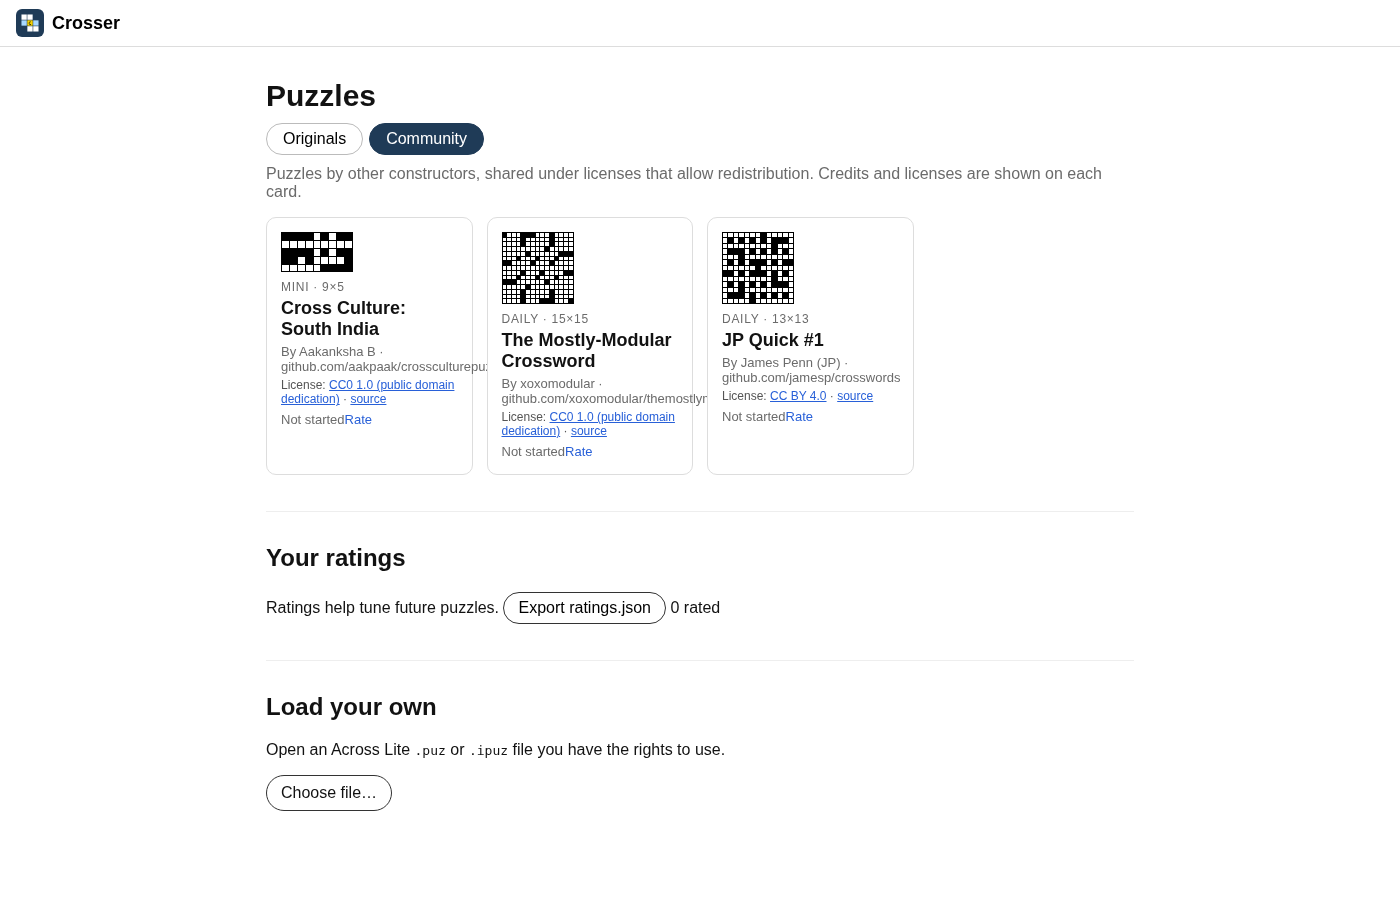
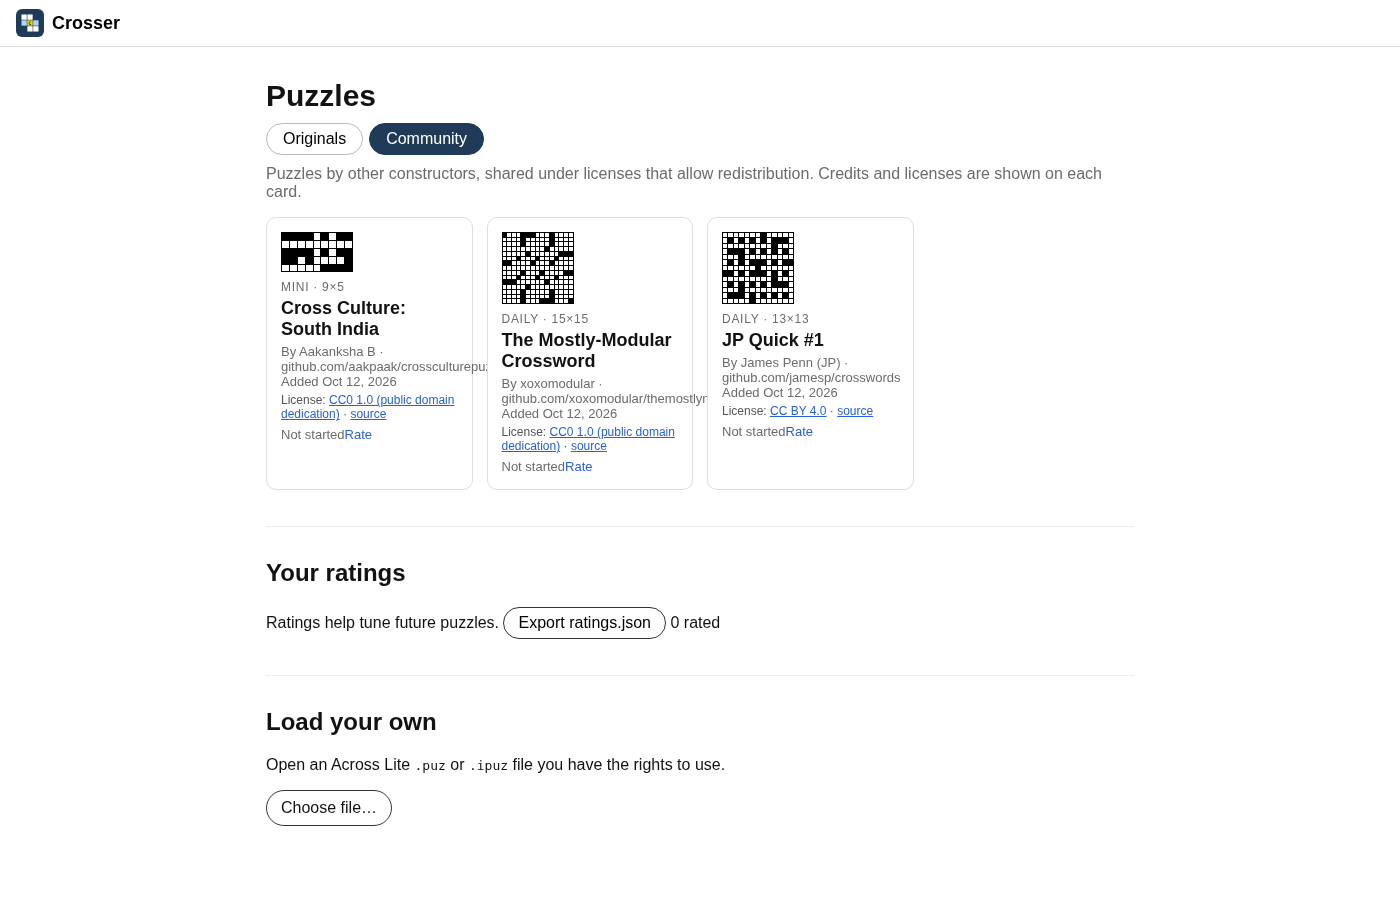
addedDate on all puzzles (ET), shown on cards and header; newest first

diff --git a/app.js b/app.js
@@ -25,7 +25,7 @@ const $=id=>document.getElementById(id);
 const store={get:k=>{try{return JSON.parse(localStorage.getItem('xw:'+k))}catch(e){return null}},set:(k,v)=>{try{localStorage.setItem('xw:'+k,JSON.stringify(v))}catch(e){}}};
 const COMM=(typeof COMMUNITY_PUZZLES!=='undefined')?COMMUNITY_PUZZLES:[];let tab='orig';
 function allPuzzles(){return PUZZLES.concat(COMM,store.get('imported')||[]);}
-function tabPuzzles(){const L=tab==='comm'?COMM.slice():PUZZLES.concat(store.get('imported')||[]);return L.map((p,i)=>[p,i]).sort((x,y)=>String(y[0].date||y[0].addedAt||'').localeCompare(String(x[0].date||x[0].addedAt||''))||y[1]-x[1]).map(x=>x[0]);}
+function tabPuzzles(){const L=tab==='comm'?COMM.slice():PUZZLES.concat(store.get('imported')||[]);return L.map((p,i)=>[p,i]).sort((x,y)=>String(y[0].addedDate||'').localeCompare(String(x[0].addedDate||''))||y[1]-x[1]).map(x=>x[0]);}
 function save(){if(M)store.set('p:'+M.p.id,S);}
 function fresh(){return {fill:M.cells.map(()=>''),pen:M.cells.map(()=>false),rev:M.cells.map(()=>false),wrong:M.cells.map(()=>false),time:0,done:false,auto:false};}
 // ---------- archive ----------
@@ -42,13 +42,14 @@ function showArchive(){
     const kind=n<=7?'Mini':n<=11?'Midi':'Daily';
     const status=st&&st.done?`<span class="st done">Solved · ${fmt(st.time)}</span>`:st&&filled?`<span class="st">${Math.round(100*filled/tot)}% · ${fmt(st.time)}</span>`:`<span class="st">Not started</span>`;
     d.innerHTML=`<div class="kind">${kind} · ${w}×${n}</div><div class="t"></div><div class="st by"></div>`;
-    d.querySelector('.t').textContent=p.title;d.querySelector('.by').textContent=(p.author?'By '+p.author:'')+(p.source?' · '+p.source:'');
+    d.querySelector('.t').textContent=p.title;d.querySelector('.by').textContent=(p.author?'By '+p.author:'')+(p.source?' · '+p.source:'');const ad=document.createElement('div');ad.className='st added';ad.textContent=fmtDate(p.addedDate);d.querySelector('.by').after(ad);
     d.prepend(mini);
     if(p.license){const l=document.createElement('div');l.className='lic';l.innerHTML='License: <a target="_blank" rel="noopener"></a> · <a target="_blank" rel="noopener">source</a>';const [la,sa]=l.querySelectorAll('a');la.textContent=p.license;la.href=p.licenseUrl;sa.href=p.sourceUrl;l.onclick=e=>e.stopPropagation();d.appendChild(l);}d.insertAdjacentHTML('beforeend',status);
     d.onclick=()=>openPuzzle(p.id);
     const rt=getRatings()[p.id];const rl=document.createElement('a');rl.className='rlink';rl.textContent=rt?'★'.repeat(rt.stars)+' · edit rating':'Rate';rl.onclick=e=>{e.stopPropagation();openRate(p);};d.appendChild(rl);list.appendChild(d);
   }
 }
+function fmtDate(d){if(!d)return '';const [y,m,dd]=d.split('-').map(Number);return 'Added '+['Jan','Feb','Mar','Apr','May','Jun','Jul','Aug','Sep','Oct','Nov','Dec'][m-1]+' '+dd+', '+y;}
 function fmt(s){s=s|0;const h=s/3600|0,m=(s%3600)/60|0,x=s%60;return (h?h+':'+String(m).padStart(2,'0'):m)+':'+String(x).padStart(2,'0');}
 // ---------- game ----------
 function openPuzzle(id){
@@ -56,7 +57,7 @@ function openPuzzle(id){
   M=buildModel(p);S=store.get('p:'+id);if(!S||S.fill.length!==M.cells.length)S=fresh();
   history.replaceState(null,'','#'+encodeURIComponent(id));
   $('archive').classList.add('hidden');$('game').classList.remove('hidden');$('tools').style.visibility='visible';
-  $('puzTitle').textContent=p.title+(p.author?'  ·  by '+p.author:'');const pl=$('puzLic');if(p.license){pl.textContent=p.license+' · source';pl.href=p.sourceUrl;}else{pl.textContent='';pl.removeAttribute('href');}
+  $('puzTitle').textContent=p.title+(p.author?'  ·  by '+p.author:'')+(p.addedDate?'  ·  '+fmtDate(p.addedDate):'');const pl=$('puzLic');if(p.license){pl.textContent=p.license+' · source';pl.href=p.sourceUrl;}else{pl.textContent='';pl.removeAttribute('href');}
   const g=$('grid');g.innerHTML='';g.style.gridTemplateColumns=`repeat(${M.w},1fr)`;
   g.className='grid'+(M.w<=7?' small':M.w>=13?' big':'');
   M.cells.forEach((c,i)=>{const d=document.createElement('div');d.className='cell'+(c.blk?' blk':'');

diff --git a/tools/build_community.js b/tools/build_community.js
@@ -20,6 +20,6 @@ for(const m of man){const f=path.join(root,'community/src',m.file);let p;
   for(const [n,[r,c]] of Object.entries(pos)){const a=!Wc(r,c-1)&&Wc(r,c+1),d=!Wc(r-1,c)&&Wc(r+1,c);
     if(a&&!p.clues.across[n])throw new Error(m.id+' missing across clue '+n);if(d&&!p.clues.down[n])throw new Error(m.id+' missing down clue '+n);}
   for(const k of ['across','down'])for(const n of Object.keys(p.clues[k]))if(!pos[n])throw new Error(m.id+' bad clue number '+n);
-  out.push(Object.assign({id:m.id,title:m.title,author:m.author,community:true,source:m.source,sourceUrl:m.sourceUrl,license:m.license,licenseUrl:m.licenseUrl,addedAt:m.addedAt||'',notes:m.notes||'',meta:m.meta||{}},{grid:p.grid,clues:p.clues}));
+  out.push(Object.assign({id:m.id,title:m.title,author:m.author,community:true,source:m.source,sourceUrl:m.sourceUrl,license:m.license,licenseUrl:m.licenseUrl,addedDate:m.addedDate,notes:m.notes||'',meta:m.meta||{}},{grid:p.grid,clues:p.clues}));
   console.log('ok',m.id,p.grid[0].length+'x'+p.grid.length);}
 fs.writeFileSync(path.join(root,'community/puzzles.js'),'// Generated by tools/build_community.js. Third-party puzzles with licenses that allow redistribution. See CREDITS.md.\nconst COMMUNITY_PUZZLES='+JSON.stringify(out,null,1)+';\n');

diff --git a/community/puzzles.js b/community/puzzles.js
@@ -9,7 +9,7 @@ const COMMUNITY_PUZZLES=[
   "sourceUrl": "https://github.com/jamesp/crosswords/blob/main/crosswords/jp-puzzle3.json",
   "license": "CC BY 4.0",
   "licenseUrl": "https://creativecommons.org/licenses/by/4.0/",
-  "addedAt": "2026-10-12",
+  "addedDate": "2026-10-12",
   "notes": "Converted format; clue enumerations added.",
   "meta": {
    "difficulty": "easy",
@@ -73,7 +73,7 @@ const COMMUNITY_PUZZLES=[
   "sourceUrl": "https://github.com/xoxomodular/themostlymodularcrosswordpuzzle",
   "license": "CC0 1.0 (public domain dedication)",
   "licenseUrl": "https://creativecommons.org/publicdomain/zero/1.0/",
-  "addedAt": "2026-10-12",
+  "addedDate": "2026-10-12",
   "notes": "Eurorack-synth themed; specialist knowledge helps. Unmodified .puz.",
   "meta": {
    "difficulty": "hard",
@@ -193,7 +193,7 @@ const COMMUNITY_PUZZLES=[
   "sourceUrl": "https://github.com/aakpaak/crossculturepuzzle",
   "license": "CC0 1.0 (public domain dedication)",
   "licenseUrl": "https://creativecommons.org/publicdomain/zero/1.0/",
-  "addedAt": "2026-10-12",
+  "addedDate": "2026-10-12",
   "notes": "Converted format.",
   "meta": {
    "difficulty": "easy",

diff --git a/puzzles.js b/puzzles.js
@@ -18,6 +18,7 @@ const PUZZLES=[
    "clueStyle": "mixed",
    "wordCount": 10
   },
+  "addedDate": "2026-10-12",
   "clues": {
    "across": {
     "1": "\"___ a shame!\"",
@@ -53,6 +54,7 @@ const PUZZLES=[
    "clueStyle": "mixed",
    "wordCount": 10
   },
+  "addedDate": "2026-10-12",
   "clues": {
    "across": {
     "1": "\"Say ___!\" (pouring request)",
@@ -88,6 +90,7 @@ const PUZZLES=[
    "clueStyle": "mixed",
    "wordCount": 10
   },
+  "addedDate": "2026-10-12",
   "clues": {
    "across": {
     "1": "Us vs. ___",
@@ -123,6 +126,7 @@ const PUZZLES=[
    "clueStyle": "straight",
    "wordCount": 10
   },
+  "addedDate": "2026-10-12",
   "clues": {
    "across": {
     "1": "\"You ___ here\" (mall map phrase)",
@@ -158,6 +162,7 @@ const PUZZLES=[
    "clueStyle": "wordplay-heavy",
    "wordCount": 10
   },
+  "addedDate": "2026-10-12",
   "clues": {
    "across": {
     "1": "Towel monogram that pairs with \"Hers\"",
@@ -199,6 +204,7 @@ const PUZZLES=[
    "clueStyle": "mixed",
    "wordCount": 42
   },
+  "addedDate": "2026-10-12",
   "clues": {
    "across": {
     "1": "Goofs up",

diff --git a/tools/ingest.py b/tools/ingest.py
@@ -23,7 +23,7 @@ for f in sorted(glob.glob(os.path.join(d,'*.json'))):
         if any(body(e)==body(p) for e in src):continue  # already shipped (append-only, no duplicates)
         base=p['id'];k=2
         while p['id'] in ids:p['id']=f"{base}-{k}";k+=1  # never overwrite: give a fresh unique id
-        p.setdefault('date',datetime.date.today().isoformat())
+        p.pop('addedDate',None);p['addedDate']=datetime.datetime.now(__import__('zoneinfo').ZoneInfo('America/New_York')).date().isoformat()
         ids[p['id']]=len(src);src.append(p)
         changed=True;report['accepted'].append({'file':f,'id':p['id'],'words':nw,'blocks':nb})
 json.dump(report,open(os.path.join(d,'_ingest_report.json'),'w'),indent=1)
